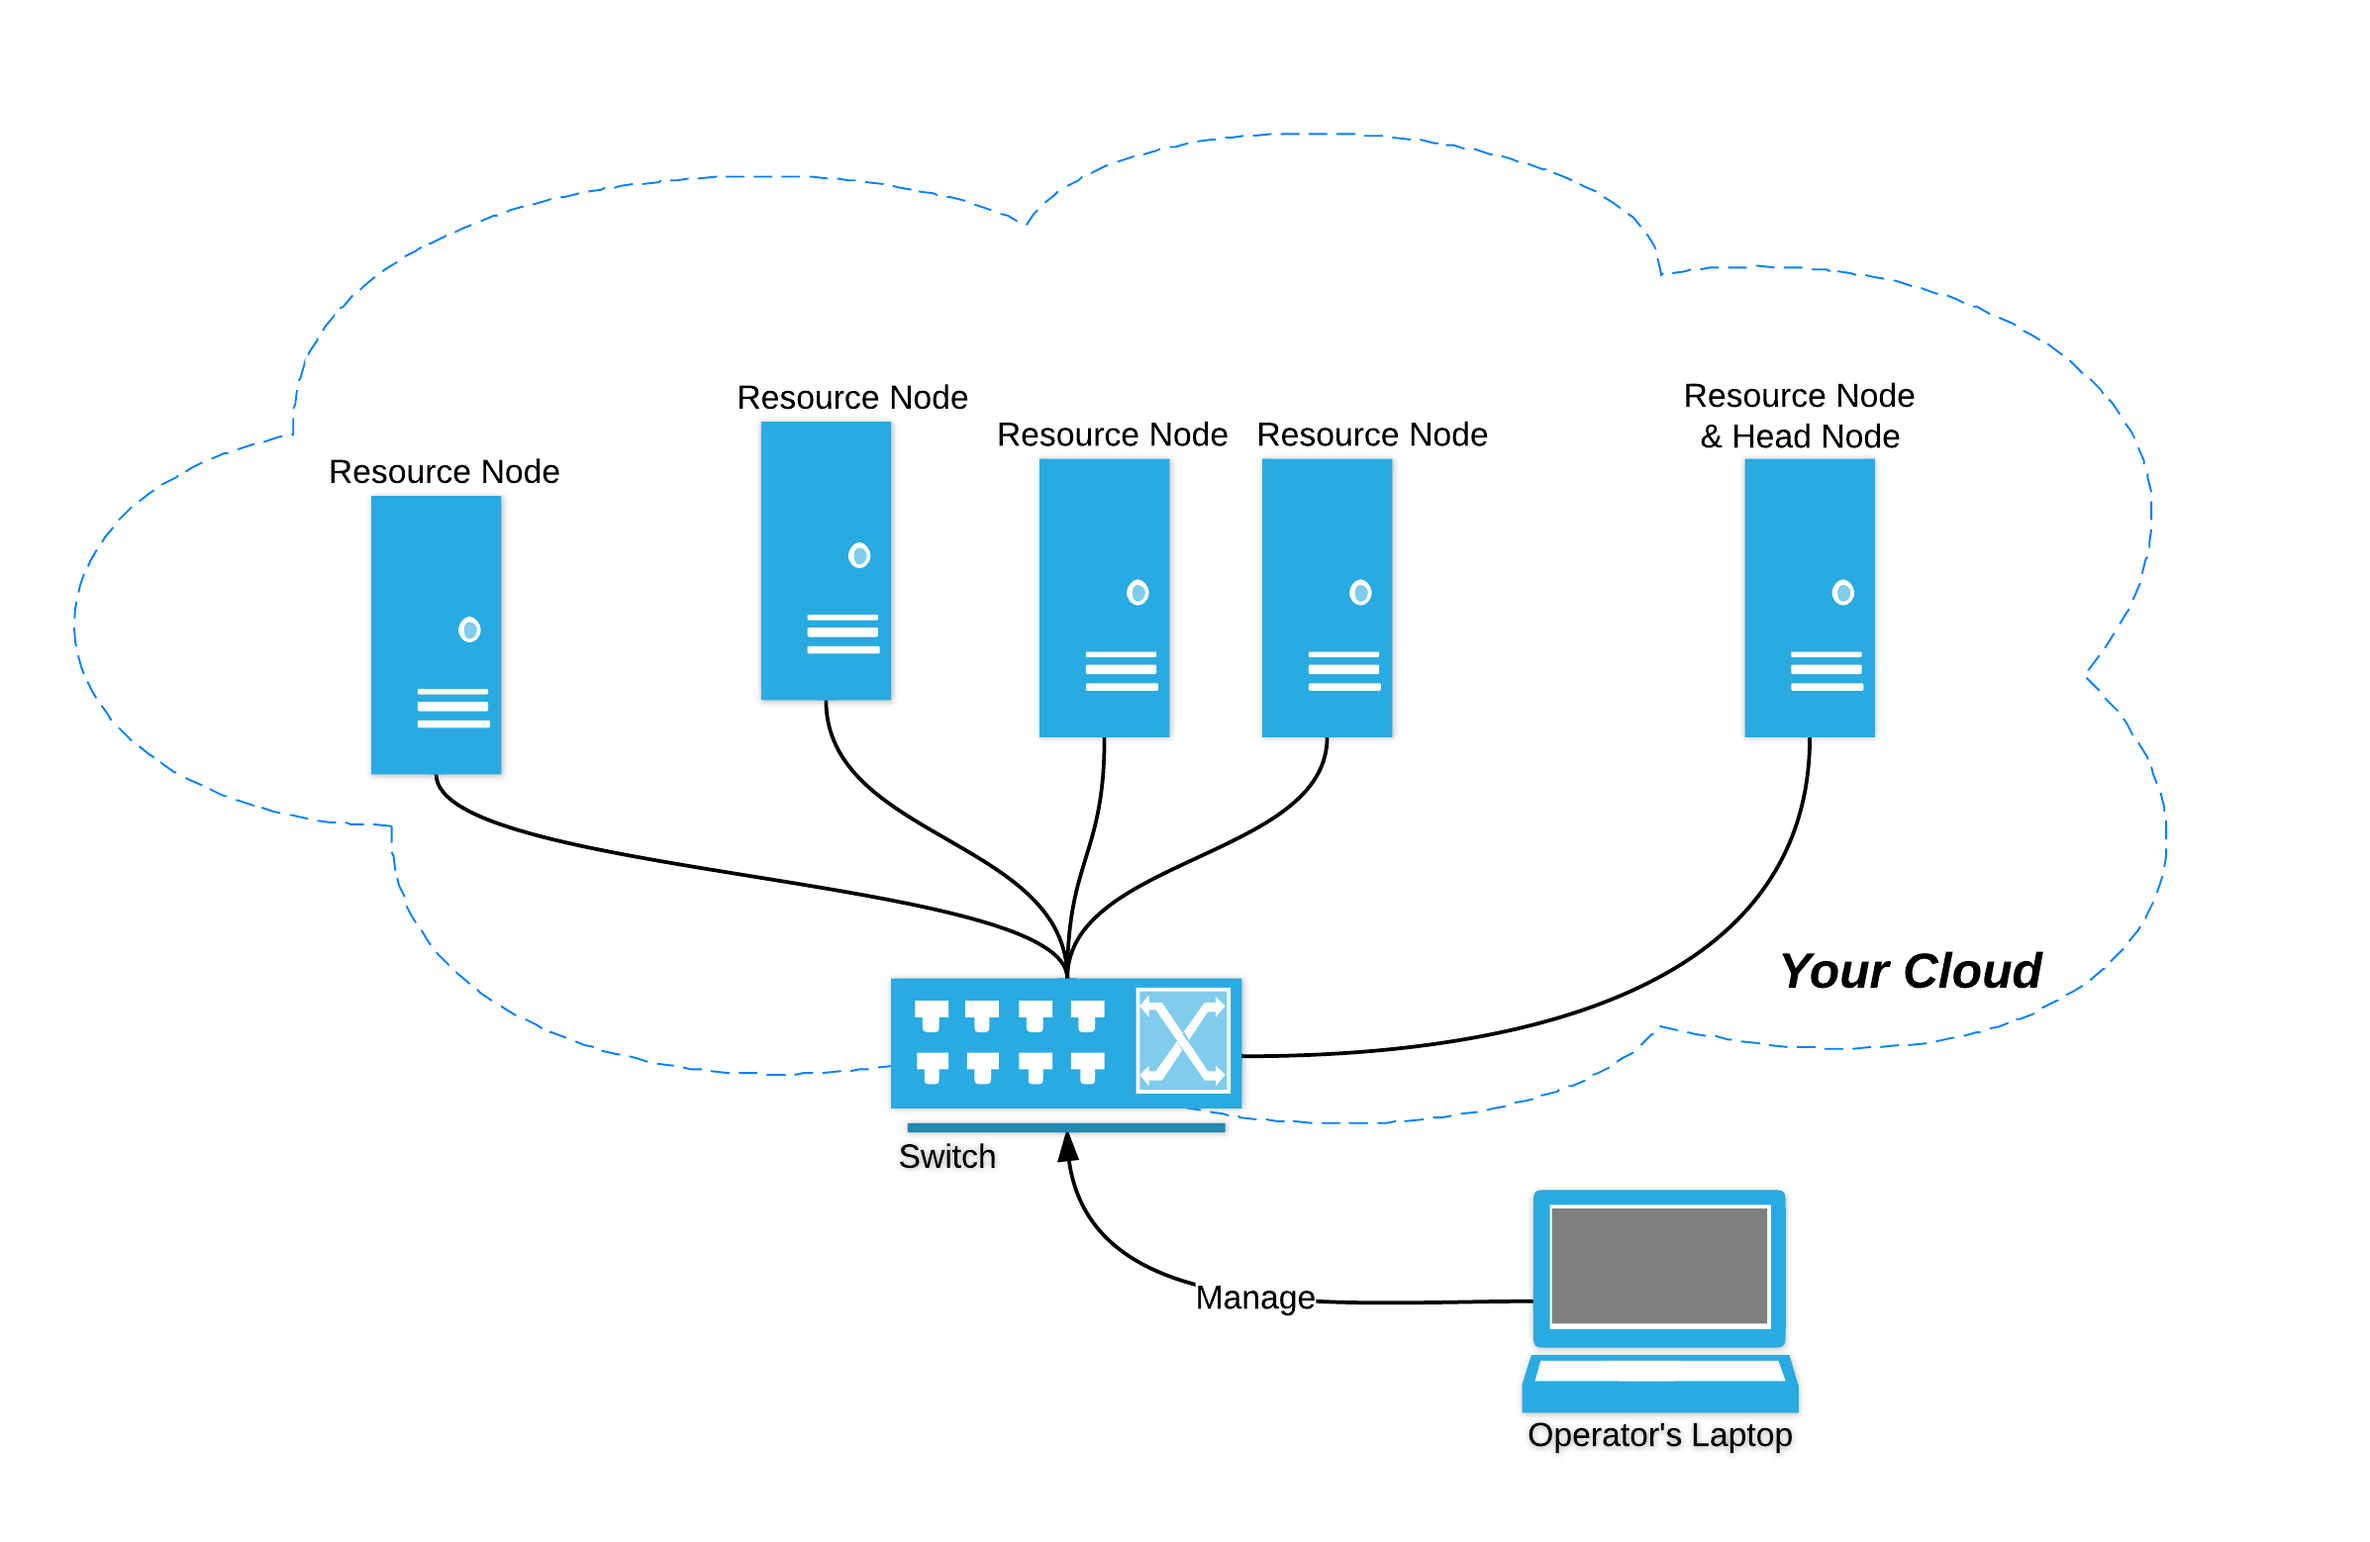
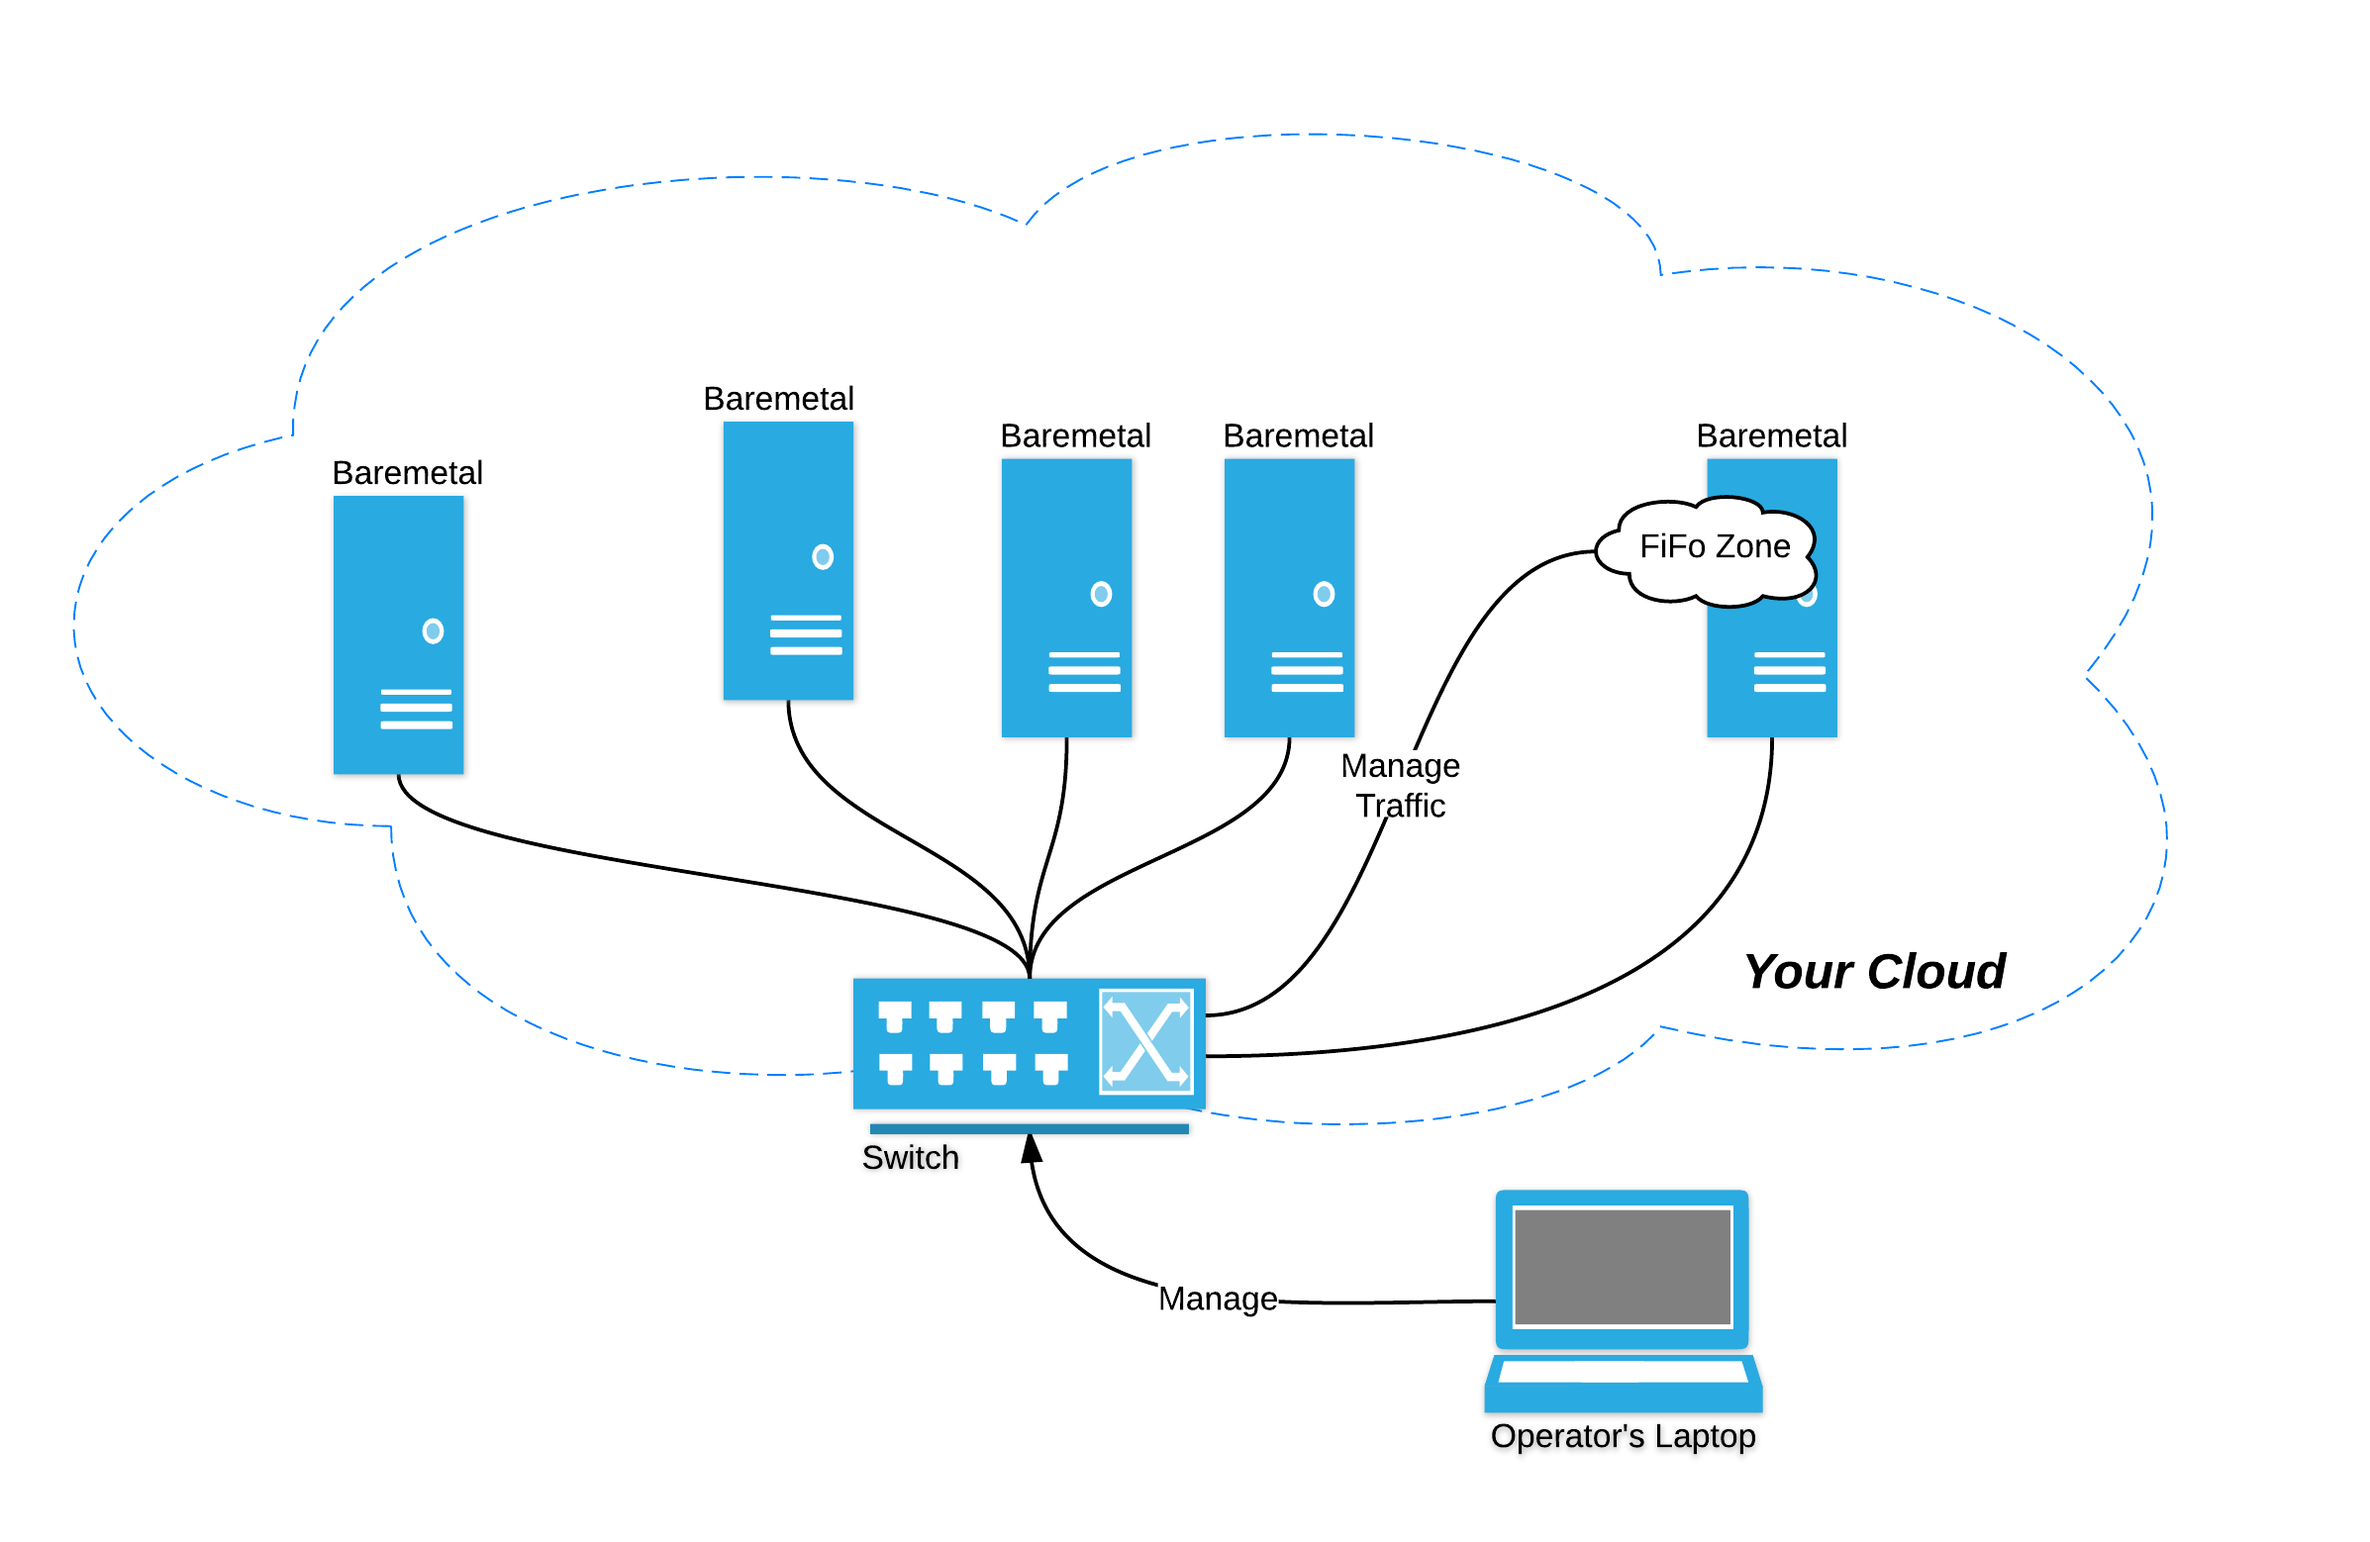
update the website for change the headnode-install to more clear term matching Fifo #3

diff --git a/index.html b/index.html
@@ -140,8 +140,8 @@
 
 <h3>Boot Your Data Center</h3>
 <ul class="nav nav-tabs">
-  <li class="active"><a href="#resource-node" data-toggle="tab">Resource Node</a>
-  <li><a href="#head-node" data-toggle="tab">Head Node</a>
+  <li class="active"><a href="#resource-node" data-toggle="tab">Baremetal</a>
+  <li><a href="#head-node" data-toggle="tab">FiFo Zone</a>
 </ul>
 <div class="tab-content dogeos-tabcontent">
   <div class="tab-pane fade in active dogeos-tabpane" id="resource-node">
@@ -151,7 +151,7 @@
   </div>
   <div class="tab-pane fade dogeos-tabpane" id="head-node">
     <ol>
-      <li>After booted, as root in bash type: <code>/dogeos/bin/headnode-install↵</code>.<br>
+      <li>Select any baremetal box, after DogeOS booted, as root login, and in bash type: <code>/dogeos/bin/fifozone-install↵</code>.<br>
       <li>Follow the instructions, and wait it finish. During this you will assign your admin account <code>password</code>, and the <code>your-fifo-zone-ip</code> will be shown in the final congratulation message box.<br>
       <li>Then you are done! Go to <code>http://&lt;your-fifo-zone-ip&gt;</code> to manage your cloud (with the <code>password</code>)!
     </ol>
